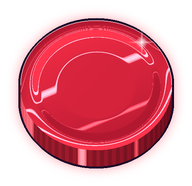
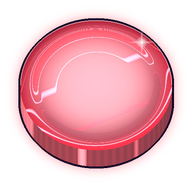
Branche argent-metaux : pièces émeraude, rubis et légendaire translucides

diff --git a/VERSION PRINCIPALE/sw.js b/VERSION PRINCIPALE/sw.js
@@ -10,7 +10,7 @@
    Sacha : « vider l'historique de sw.js » — 272 Ko de notes que chaque joueur retéléchargeait à chaque version). ICI, UNE SEULE
    LIGNE : à chaque version on REMPLACE la ligne `const CACHE` ci-dessous (numéro +1, une note courte), sans garder l'ancienne en
    commentaire ; le détail d'une version va dans sa section du journal. */
-const CACHE = 'cashcar-v1288'; /* v1288 BRANCHE argent-metaux (2026-11-07, Léo : « plus lumineux, plus flou, pas un bonnet rasta ; le ressenti légendaire de Clash Royale ; une page où je vois tout défiler ») légendaire en pastels irisés fondus qui glissent, pièce plus claire qui tourne en RGB ; vitrine-monnaie.html montre les six paliers et un compteur qui les traverse. */ /* v1287 BRANCHE argent-metaux (2026-11-07, Léo : « le légendaire multicolore en RGB ») la pièce légendaire tourne dans toutes les teintes. */ /* v1286 BRANCHE argent-metaux (2026-11-07, Léo : « euro argenté au milieu et doré au bord, centime unicolore juste bronze brillant ») le centime est d'un seul bronze verni ; l'euro a un cœur argent miroir dans une couronne d'or, et ses chiffres sont argent sur un relief doré. */ /* v1285 BRANCHE argent-metaux (2026-11-07, Léo : « au début un centime brillant comme la Honte, puis un euro comme sur la route, puis or, émeraude, rouge, multicolore légendaire ») six paliers : CENTIME, EURO (bicolore), OR, ÉMERAUDE, RUBIS, LÉGENDAIRE (arc-en-ciel qui défile). */ /* v1284 BRANCHE argent-metaux (2026-11-07, Léo : « la matière de la pièce comme la voiture, polie brillante » ; « la boutique entourée de noir » ; « voir évoluer l'argent ») pièce VERNIE (boîtes à lumière, reflets blancs francs), compte de la boutique sans encre, `?metal=demo` fait défiler les cinq paliers. */ /* v1283 BRANCHE argent-metaux (2026-11-07, Léo : « fais juste une pièce 3D qui changera de matière par palier ») la monnaie devient une PIÈCE 3D (image au compteur, glyphe dans les textes), en cuivre, argent, or, émeraude ou diamant selon la fortune. */ /* v1282 BRANCHE argent-metaux (2026-11-07, Léo : « l'argent, plus tu en as, plus ça évolue ; refonte de la police de l'argent ») le symbole du sketch revient (branche seulement) et l'argent prend un MÉTAL qui suit la fortune : cuivre, argent, or, émeraude, diamant ; vrais € en rose néon. */ /* v1281 (2026-11-07, Sacha : « reviens en arrière sur les trucs de Léo avec le symbole euro, je veux les mêmes symboles euro que avant, les normaux en pixel ») la monnaie dorée 3D de Léo (v1276) est retirée une seconde fois : le € pixel d'avant revient partout. */ /* v1279 (2026-11-07, Léo : « enlève la tin snail ») LA DEUCHE (THE TIN SNAIL) est retirée de nouveau de la boutique ; le Taxi jaune reste. */ /* v1278 (2026-11-07, Sacha : « enlève TOUT et TRI ORDRE » · « les photos des voitures sont coupées » · « les photos des ailes sont buggées ») l'inventaire du coffre sans pastilles TOUT · TRI ; photos de la bande de l'atelier entières dans leur tuile. */ /* v1277 (2026-11-07, Léo : « sa règle compte : quand on appuie ACHETER, la vitre se casse et elle disparaît ») boutique : à l'achat la vitre se brise (vitre-brisee.js) et disparaît de la vitrine — la carte reçoit sa photo sans verre ; une caisse à toi n'a plus de vitre (règle de Sacha). */ /* v1276 (2026-11-07, Léo : « renvoie-la, dorée en 3D ») LA MONNAIE DU JEU revient (annulée sans mot) : le symbole du sketch, retaillé net, est un glyphe des polices (CUR() partout) et une IMAGE OR 3D au compteur, qui saute à chaque gain ; les vrais euros des offres restent en €. */ /* v1274 (2026-11-07, Léo : « laisse le socle noir de Sacha, je ne vois plus les vitres ») boutique : la vitrine des voitures reprend le socle NOIR VERNI de Sacha (avec le quadrillage, le verre et le fond de studio de Léo), et la vitre reste sur les caisses à toi ; le bloc de route : vitrine=route. */ /* v1273 (2026-11-07, Sacha : « lance une vraie chasse aux bugs ultra complète […] un soin particulier au son ») LA CHASSE : JOUER pendant la chauffe ne fige plus l'atelier (garage-rendu.js) ; ANNULER et SÉRIE en anglais ; la mission des couleurs n'est plus offerte sur le web ; les peintures gagnées restent dans MISSIONS au rechargement ; MAUVAIS SENS s'efface après QUITTER ; le pré-bâti retrouve sa chance à chaque partie ; le rayon de la boutique suit la vedette ; la 3D de l'ordi suit le zoom du cadre ; ROSSO 40 sans faux prix ; et LE SON : sons de course chauffés avant le départ (sfx.js v11), Pouce bleu muet en pause, RECOMMENCER tire un morceau neuf, air de la boutique rebranché, rouleaux du spin, boule de l'intro avec délai de secours, graphe endormi quand tout est coupé, bips du 3-2-1 sans paquet. */ /* v1272 (2026-11-07, Sacha : « remets l'ancien caractère €, annule le push de Léo ») la monnaie du sketch de Léo (v1254, v1256, v1269) est retirée : le € d'avant revient partout. */ /* v1271 (2026-11-07, Sacha : « organise-toi pour tout pousser avec soin ») LE RATTRAPAGE DE L'ARBRE PARTAGÉ : Final Spin réparé en mobile (final-spin.css), boutique — un système par rayon (peinture, ailes, traînées, figures : boutique-*.js/css), missions — l'écran de mission seulement pour une caisse, pièces ramassées 9 dB plus bas, ligne POUCE HAUT retirée dans le cadre téléphone de l'ordi. v1270 (2026-11-07, Léo : « la plaque noire, c'est un bloc de route du jeu » puis « oui, sur le main ») boutique : la vitrine des voitures a pour socle un BLOC DE LA ROUTE DU JEU (béton brut, flancs, lignes, liseré de rareté), photographié en 3D avec la caisse, sous le verre teinté de la rareté et son fond de studio ; vitrine=0 = le cube d'avant. */ /* v1269 (2026-11-07, Léo : « plus 3D jeu vidéo, là on dirait un euro ») le symbole de la monnaie prend un corps extrudé vers le bas-droite, séparé de sa face par un filet. */ /* v1267 (2026-11-07, Léo : « missions un peu plus petites, flottantes, un toucher les avance, un second les choisit ») LE VISEUR : profondeur des cartes. */ /* v1266 (2026-11-07, Sacha : « dans le garage il y a des tas de billets qui flottent ») les deux piles de billets posées sur des fûts disparus de l'atelier sont retirées (argent-atelier.js).  v1265 (2026-11-07, Léo : « un push a annulé le travail de la voiture dans le cube, il y a une plaque noire ») boutique : la vitrine miniature (socle noir verni) est éteinte par défaut, retour aux cubes de verre à sol quadrillé ; la vitrine s'allume avec vitrine=1. */ /* v1264 (2026-11-05, Sacha : « enlève la pluie dans le biome canyon des géants » · « l'orage aussi ») LE CANYON SANS PLUIE : les météos PLUIE et ORAGE du canyon sortent du tirage (p:0, niveaux.js) : il reste le matin, le soir et la nuit ; `?carte=canyon&meteo=pluie` (ou `orage`) les joue encore ; la mission « toutes ses météos » ne compte plus les météos hors du tirage (defis-moteur.js). */ /* v1262 (2026-11-07, Sacha : « lance une vraie chasse aux bugs ultra complète […] un soin particulier au son ») LA CHASSE : JOUER pendant la chauffe ne fige plus l'atelier (garage-rendu.js) ; ANNULER et SÉRIE en anglais ; la mission des couleurs n'est plus offerte sur le web ; les peintures gagnées restent dans MISSIONS au rechargement ; MAUVAIS SENS s'efface après QUITTER ; le pré-bâti retrouve sa chance à chaque partie ; le rayon de la boutique suit la vedette ; la 3D de l'ordi suit le zoom du cadre ; ROSSO 40 sans faux prix ; et LE SON : sons de course chauffés avant le départ (sfx.js v11), Pouce bleu muet en pause, RECOMMENCER tire un morceau neuf, air de la boutique rebranché, rouleaux du spin, boule de l'intro avec délai de secours, graphe endormi quand tout est coupé, bips du 3-2-1 sans paquet. */ /* v1261 (2026-11-07, Léo : « je veux que ça remplace le système de missions tout listé direct ») LES MISSIONS NOUVELLE FORME : 3 missions tirées au hasard autour de la caisse (LE VISEUR), cadeaux garantis, reprise de la progression ; ?pass=0 pour l'ancien. */ /* v1260 (2026-11-07, Sacha : « horrible, retourne en arrière ») menu ciel : retour aux tuiles GARAGE / ACHAT / REGLAGES d'avant (verre anthracite) ; les tuiles en bonbon clair de v1256 sont retirées. */
+const CACHE = 'cashcar-v1289'; /* v1289 BRANCHE argent-metaux (2026-11-07, Léo : « les pièces brillantes et légendaires plus translucides ») émeraude, rubis et légendaire en verre : le fond passe à travers le cœur, bords et reflets pleins, lumière intérieure. */ /* v1288 BRANCHE argent-metaux (2026-11-07, Léo : « plus lumineux, plus flou, pas un bonnet rasta ; le ressenti légendaire de Clash Royale ; une page où je vois tout défiler ») légendaire en pastels irisés fondus qui glissent, pièce plus claire qui tourne en RGB ; vitrine-monnaie.html montre les six paliers et un compteur qui les traverse. */ /* v1287 BRANCHE argent-metaux (2026-11-07, Léo : « le légendaire multicolore en RGB ») la pièce légendaire tourne dans toutes les teintes. */ /* v1286 BRANCHE argent-metaux (2026-11-07, Léo : « euro argenté au milieu et doré au bord, centime unicolore juste bronze brillant ») le centime est d'un seul bronze verni ; l'euro a un cœur argent miroir dans une couronne d'or, et ses chiffres sont argent sur un relief doré. */ /* v1285 BRANCHE argent-metaux (2026-11-07, Léo : « au début un centime brillant comme la Honte, puis un euro comme sur la route, puis or, émeraude, rouge, multicolore légendaire ») six paliers : CENTIME, EURO (bicolore), OR, ÉMERAUDE, RUBIS, LÉGENDAIRE (arc-en-ciel qui défile). */ /* v1284 BRANCHE argent-metaux (2026-11-07, Léo : « la matière de la pièce comme la voiture, polie brillante » ; « la boutique entourée de noir » ; « voir évoluer l'argent ») pièce VERNIE (boîtes à lumière, reflets blancs francs), compte de la boutique sans encre, `?metal=demo` fait défiler les cinq paliers. */ /* v1283 BRANCHE argent-metaux (2026-11-07, Léo : « fais juste une pièce 3D qui changera de matière par palier ») la monnaie devient une PIÈCE 3D (image au compteur, glyphe dans les textes), en cuivre, argent, or, émeraude ou diamant selon la fortune. */ /* v1282 BRANCHE argent-metaux (2026-11-07, Léo : « l'argent, plus tu en as, plus ça évolue ; refonte de la police de l'argent ») le symbole du sketch revient (branche seulement) et l'argent prend un MÉTAL qui suit la fortune : cuivre, argent, or, émeraude, diamant ; vrais € en rose néon. */ /* v1281 (2026-11-07, Sacha : « reviens en arrière sur les trucs de Léo avec le symbole euro, je veux les mêmes symboles euro que avant, les normaux en pixel ») la monnaie dorée 3D de Léo (v1276) est retirée une seconde fois : le € pixel d'avant revient partout. */ /* v1279 (2026-11-07, Léo : « enlève la tin snail ») LA DEUCHE (THE TIN SNAIL) est retirée de nouveau de la boutique ; le Taxi jaune reste. */ /* v1278 (2026-11-07, Sacha : « enlève TOUT et TRI ORDRE » · « les photos des voitures sont coupées » · « les photos des ailes sont buggées ») l'inventaire du coffre sans pastilles TOUT · TRI ; photos de la bande de l'atelier entières dans leur tuile. */ /* v1277 (2026-11-07, Léo : « sa règle compte : quand on appuie ACHETER, la vitre se casse et elle disparaît ») boutique : à l'achat la vitre se brise (vitre-brisee.js) et disparaît de la vitrine — la carte reçoit sa photo sans verre ; une caisse à toi n'a plus de vitre (règle de Sacha). */ /* v1276 (2026-11-07, Léo : « renvoie-la, dorée en 3D ») LA MONNAIE DU JEU revient (annulée sans mot) : le symbole du sketch, retaillé net, est un glyphe des polices (CUR() partout) et une IMAGE OR 3D au compteur, qui saute à chaque gain ; les vrais euros des offres restent en €. */ /* v1274 (2026-11-07, Léo : « laisse le socle noir de Sacha, je ne vois plus les vitres ») boutique : la vitrine des voitures reprend le socle NOIR VERNI de Sacha (avec le quadrillage, le verre et le fond de studio de Léo), et la vitre reste sur les caisses à toi ; le bloc de route : vitrine=route. */ /* v1273 (2026-11-07, Sacha : « lance une vraie chasse aux bugs ultra complète […] un soin particulier au son ») LA CHASSE : JOUER pendant la chauffe ne fige plus l'atelier (garage-rendu.js) ; ANNULER et SÉRIE en anglais ; la mission des couleurs n'est plus offerte sur le web ; les peintures gagnées restent dans MISSIONS au rechargement ; MAUVAIS SENS s'efface après QUITTER ; le pré-bâti retrouve sa chance à chaque partie ; le rayon de la boutique suit la vedette ; la 3D de l'ordi suit le zoom du cadre ; ROSSO 40 sans faux prix ; et LE SON : sons de course chauffés avant le départ (sfx.js v11), Pouce bleu muet en pause, RECOMMENCER tire un morceau neuf, air de la boutique rebranché, rouleaux du spin, boule de l'intro avec délai de secours, graphe endormi quand tout est coupé, bips du 3-2-1 sans paquet. */ /* v1272 (2026-11-07, Sacha : « remets l'ancien caractère €, annule le push de Léo ») la monnaie du sketch de Léo (v1254, v1256, v1269) est retirée : le € d'avant revient partout. */ /* v1271 (2026-11-07, Sacha : « organise-toi pour tout pousser avec soin ») LE RATTRAPAGE DE L'ARBRE PARTAGÉ : Final Spin réparé en mobile (final-spin.css), boutique — un système par rayon (peinture, ailes, traînées, figures : boutique-*.js/css), missions — l'écran de mission seulement pour une caisse, pièces ramassées 9 dB plus bas, ligne POUCE HAUT retirée dans le cadre téléphone de l'ordi. v1270 (2026-11-07, Léo : « la plaque noire, c'est un bloc de route du jeu » puis « oui, sur le main ») boutique : la vitrine des voitures a pour socle un BLOC DE LA ROUTE DU JEU (béton brut, flancs, lignes, liseré de rareté), photographié en 3D avec la caisse, sous le verre teinté de la rareté et son fond de studio ; vitrine=0 = le cube d'avant. */ /* v1269 (2026-11-07, Léo : « plus 3D jeu vidéo, là on dirait un euro ») le symbole de la monnaie prend un corps extrudé vers le bas-droite, séparé de sa face par un filet. */ /* v1267 (2026-11-07, Léo : « missions un peu plus petites, flottantes, un toucher les avance, un second les choisit ») LE VISEUR : profondeur des cartes. */ /* v1266 (2026-11-07, Sacha : « dans le garage il y a des tas de billets qui flottent ») les deux piles de billets posées sur des fûts disparus de l'atelier sont retirées (argent-atelier.js).  v1265 (2026-11-07, Léo : « un push a annulé le travail de la voiture dans le cube, il y a une plaque noire ») boutique : la vitrine miniature (socle noir verni) est éteinte par défaut, retour aux cubes de verre à sol quadrillé ; la vitrine s'allume avec vitrine=1. */ /* v1264 (2026-11-05, Sacha : « enlève la pluie dans le biome canyon des géants » · « l'orage aussi ») LE CANYON SANS PLUIE : les météos PLUIE et ORAGE du canyon sortent du tirage (p:0, niveaux.js) : il reste le matin, le soir et la nuit ; `?carte=canyon&meteo=pluie` (ou `orage`) les joue encore ; la mission « toutes ses météos » ne compte plus les météos hors du tirage (defis-moteur.js). */ /* v1262 (2026-11-07, Sacha : « lance une vraie chasse aux bugs ultra complète […] un soin particulier au son ») LA CHASSE : JOUER pendant la chauffe ne fige plus l'atelier (garage-rendu.js) ; ANNULER et SÉRIE en anglais ; la mission des couleurs n'est plus offerte sur le web ; les peintures gagnées restent dans MISSIONS au rechargement ; MAUVAIS SENS s'efface après QUITTER ; le pré-bâti retrouve sa chance à chaque partie ; le rayon de la boutique suit la vedette ; la 3D de l'ordi suit le zoom du cadre ; ROSSO 40 sans faux prix ; et LE SON : sons de course chauffés avant le départ (sfx.js v11), Pouce bleu muet en pause, RECOMMENCER tire un morceau neuf, air de la boutique rebranché, rouleaux du spin, boule de l'intro avec délai de secours, graphe endormi quand tout est coupé, bips du 3-2-1 sans paquet. */ /* v1261 (2026-11-07, Léo : « je veux que ça remplace le système de missions tout listé direct ») LES MISSIONS NOUVELLE FORME : 3 missions tirées au hasard autour de la caisse (LE VISEUR), cadeaux garantis, reprise de la progression ; ?pass=0 pour l'ancien. */ /* v1260 (2026-11-07, Sacha : « horrible, retourne en arrière ») menu ciel : retour aux tuiles GARAGE / ACHAT / REGLAGES d'avant (verre anthracite) ; les tuiles en bonbon clair de v1256 sont retirées. */
 const CORE = ['./', './index.html', './manifest.webmanifest', './icon.svg'];
 
 self.addEventListener('install', e => {
